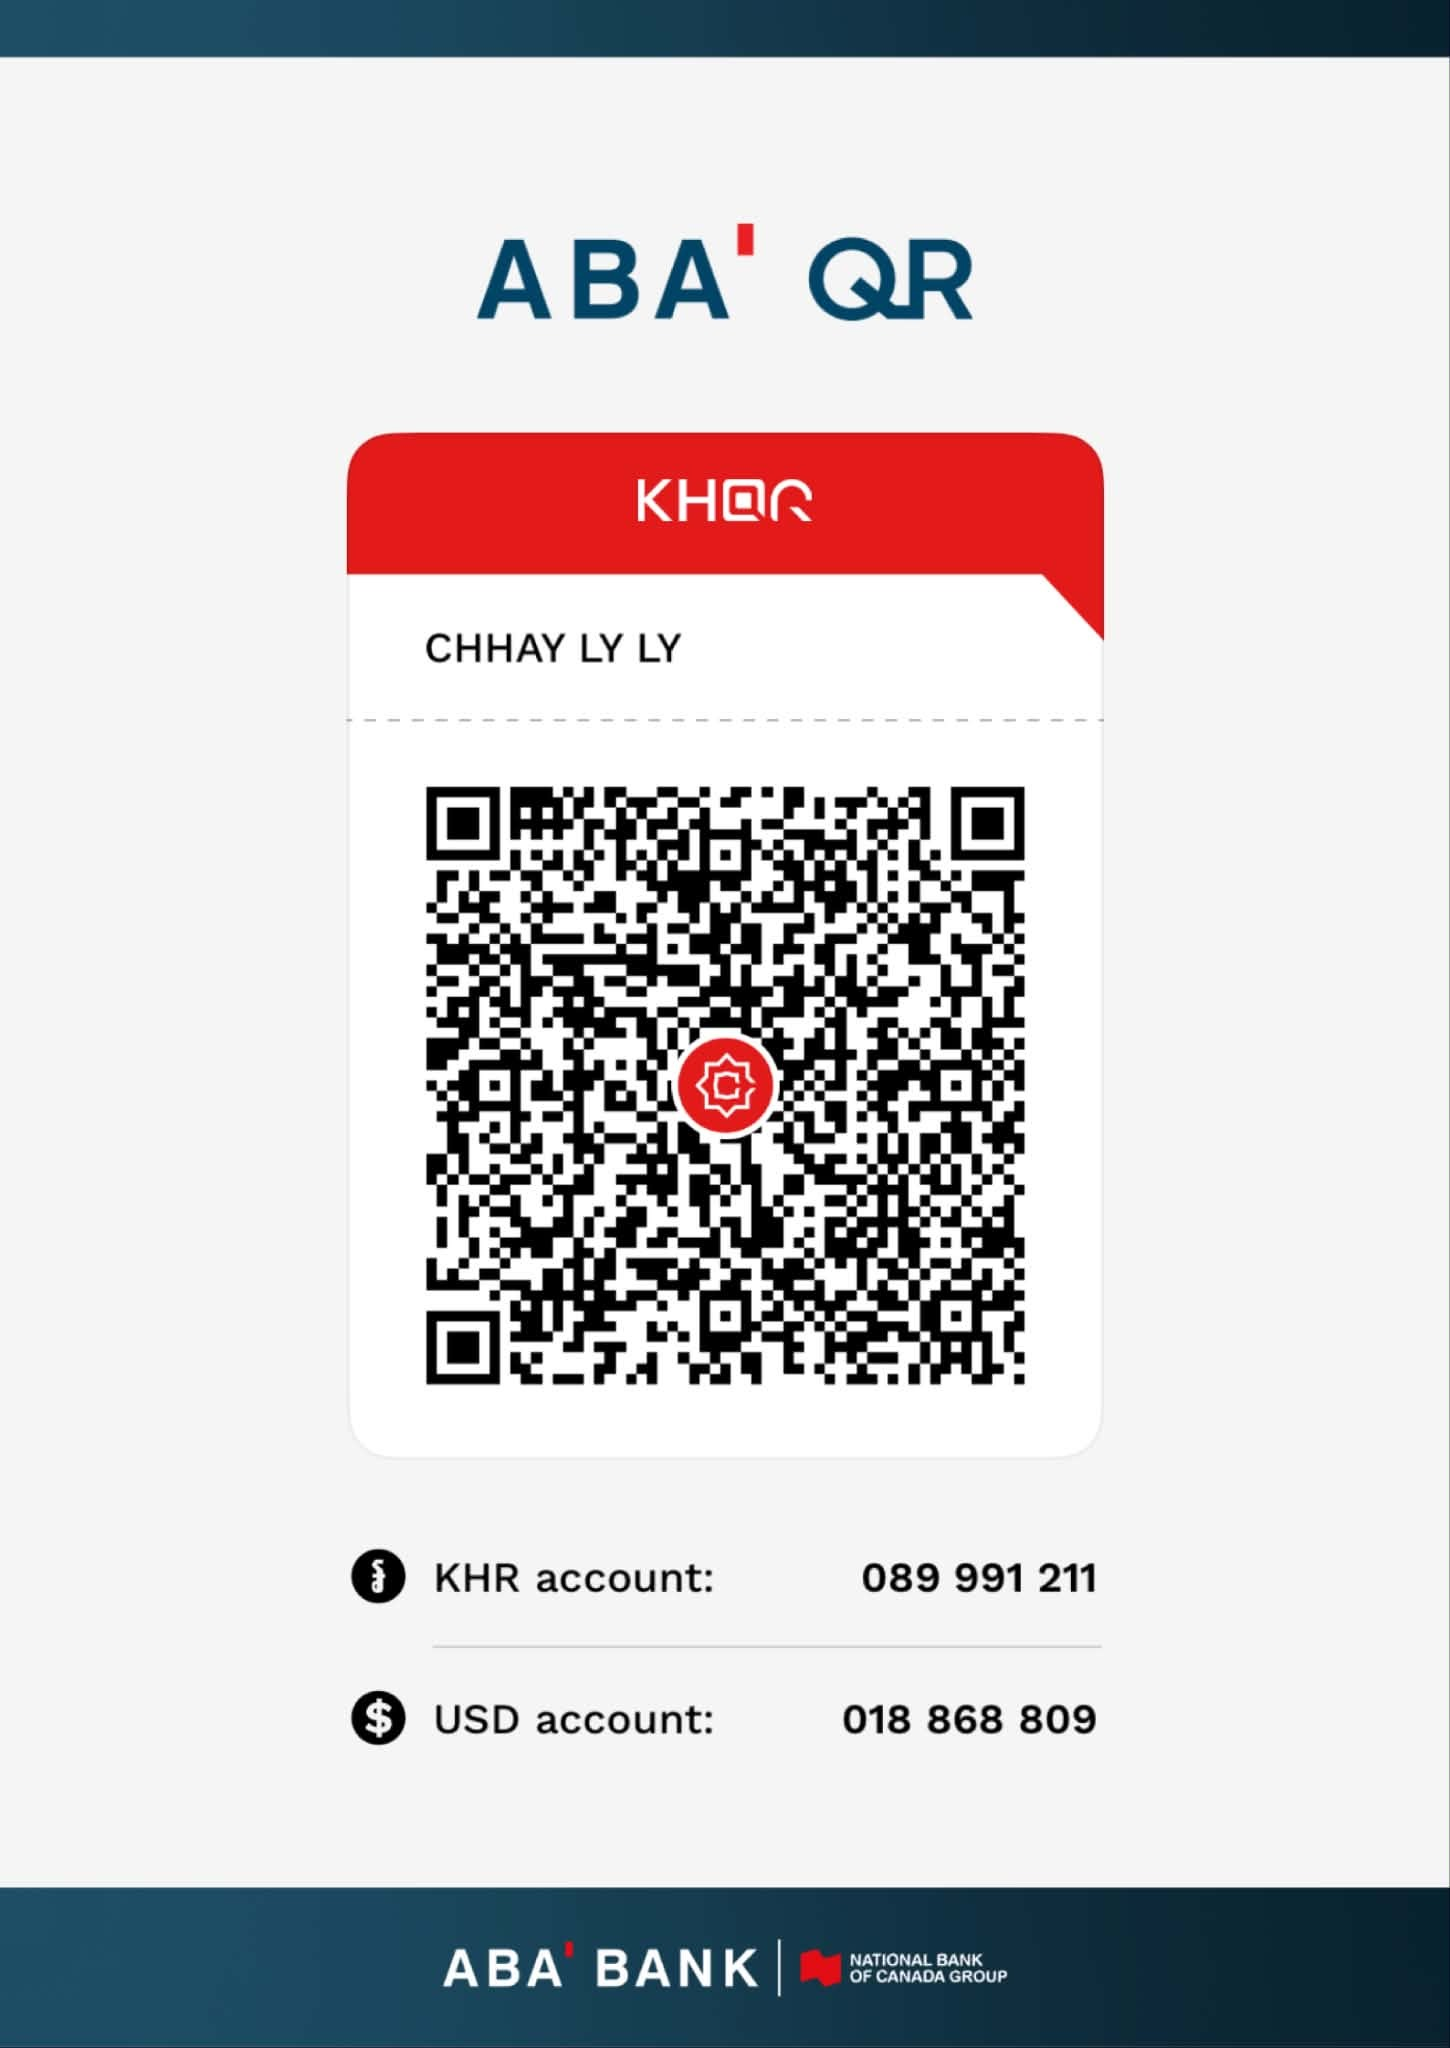
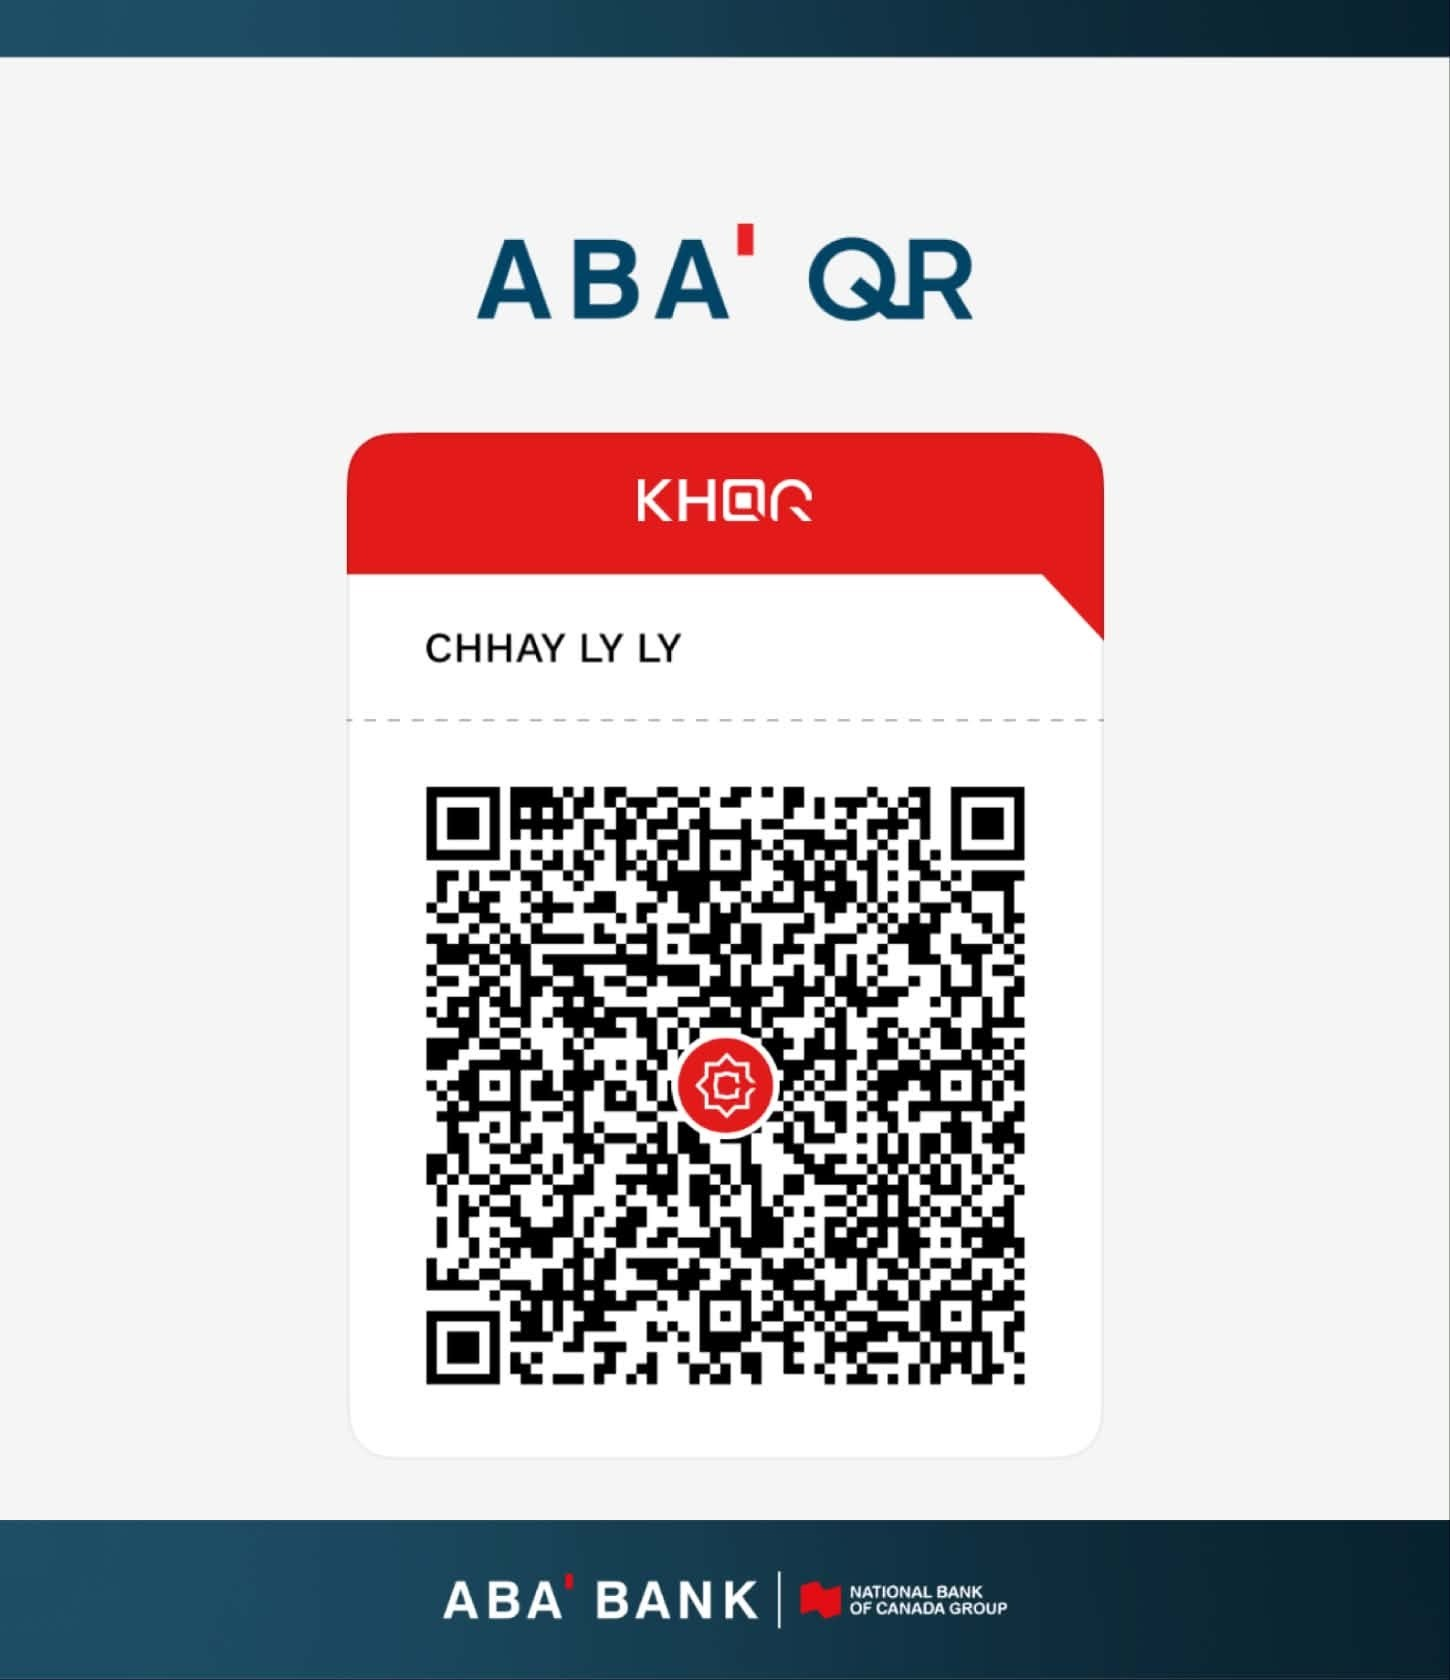
Ly Chhayly: KHQR label only, account numbers removed (card and saved picture), AKbalthom Moul for Khmer guest names in the Khmer version, full-size layout on for tablets and computers (cover leaves room for two-line names)
Claude-Session: https://claude.ai/code/session_01EGB8zvikzSnAyi6PcJ2n8E

Changed region(s): [[0.2172, 0.0929, 0.7759, 0.8667], [0.0, 0.0, 1.0, 0.0619], [0.0, 0.8976, 1.0, 0.9905]]

diff --git a/public/t/classic-gold.html b/public/t/classic-gold.html
@@ -9,7 +9,7 @@
 (function(){try{var w=Math.min(screen.width,screen.height);if(w&&w<600){document.querySelector('meta[name="viewport"]').setAttribute('content','width=390, viewport-fit=cover')}}catch(e){}})();</script>
 <script>/* FULL-SIZE LAYOUT for tablets and computers (html.wide).
    WIDE_FOR_ALL=false: only shown when the link ends in ?wide (for checking). true: every tablet and computer gets it. Phones never do. */
-(function(){var WIDE_FOR_ALL=false;try{
+(function(){var WIDE_FOR_ALL=true;try{
   var on=WIDE_FOR_ALL||/[?&]wide(=|&|$)/.test(location.search);
   var phone=Math.min(screen.width,screen.height)<600;
   function set(){document.documentElement.classList.toggle('wide',on&&!phone&&window.innerWidth>=700)}
@@ -731,6 +731,8 @@ html[data-lang="en"] .cv-lang::before{transform:translateX(100%)}
 @media (prefers-reduced-motion:reduce){html.lang-out .page>.in,html.lang-out .cover .stage,html.lang-out #langBtn{opacity:1;transform:none}
   html.lang-in .page>.in,html.lang-in .cover .stage,html.lang-in #langBtn,.cd-n.in,.cd-n.out{animation:none}.lb,.lb img,.save-note,.cv-lang::before{transition:none}}
 /* ================= three languages: Khmer, English, 中文 (Nov 2026) ================= */
+@font-face{font-family:'AKbalthom Moul';src:url(img/fonts/ak-moul.woff2) format('woff2');font-weight:100 900;font-style:normal;font-display:swap;unicode-range:U+0020,U+00A0,U+1780-17FF,U+19E0-19FF,U+200B-200D,U+25CC}
+html[data-lang="km"] .plate.kh-name{font-family:'AKbalthom Moul',var(--kh-display);font-size:max(17px,calc(var(--u)*68));line-height:1.6}
 @font-face{font-family:'CY HuPo';src:url(img/fonts/cy-hupo.woff2) format('woff2');font-weight:100 900;font-style:normal;font-display:swap}
 @font-face{font-family:'CY WeiBei';src:url(img/fonts/cy-weibei.woff2) format('woff2');size-adjust:106%;font-weight:100 900;font-style:normal;font-display:swap}
 .ord{text-transform:none;letter-spacing:.02em}
@@ -874,7 +876,7 @@ html.wide{--colw:100%;--cx:50%}
 html.wide body{background:var(--wine-deep)}
 html.wide .side{display:none!important}
 html.wide .phone{max-width:none;margin:0;box-shadow:none}
-html.wide .cover{--cw:min(100vw,600px)}   /* the doors fill the screen; the card keeps its tested portrait shape */
+html.wide .cover{--cw:min(100vw,600px);--u:calc(min(var(--cw),calc(var(--vh)*62))/1240)}   /* the doors fill the screen; the card keeps its tested portrait shape */
 html.wide .bar-in{max-width:1240px;margin:0 auto;height:58px;padding:0 28px}
 html.wide .menu ul,html.wide .menu-lang{max-width:560px;margin-inline:auto}
 html.wide .page{padding-top:76px;padding-bottom:76px}
@@ -1245,8 +1247,8 @@ set();window.addEventListener('resize',set);window.addEventListener('orientation
           <div class="env-slot">
             <div class="env-card" id="envCard">
               <div class="qrcard" id="qrcard" aria-hidden="true">
-                <div class="bank">ABA · KHQR</div>
-                <div class="acct">CHHAY LY LY<small>KHR · 089 991 211</small><small>USD · 018 868 809</small></div>
+                <div class="bank">KHQR</div>
+                <div class="acct">CHHAY LY LY</div>
                 <div id="qr"><img src="img/gift-qr.png" alt="ABA KHQR for CHHAY LY LY" width="660" height="660" data-save="img/gift-qr-full.jpg"></div>
                 <button type="button" class="btn solid qsave" id="saveQr">
                   <svg viewBox="0 0 24 24" aria-hidden="true"><path d="M12 4v11M7 11l5 5 5-5M5 20h14"/></svg>
